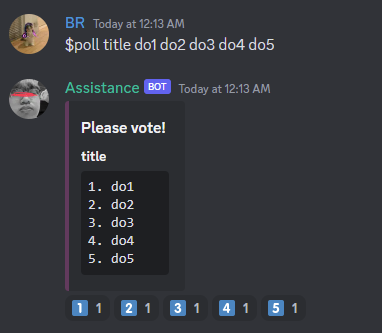
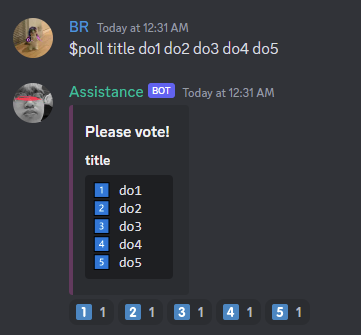
update emoji

Changed region(s): [[0.0, 0.2402, 0.7618, 0.8709], [0.0, 0.03, 0.7922, 0.1802], [0.1828, 0.9009, 0.8532, 0.961]]

diff --git a/main.py b/main.py
@@ -610,7 +610,7 @@ class MyClient(discord.Client):
             title = choices[0]
             display_choices = ''
             for i in range(len(choices[1:])):
-                display_choices += f"{i + 1}. {choices[1:][i]}\n"
+                display_choices += f"{emoji[i]} {choices[1:][i]}\n"
             embedVar = discord.Embed(title=f"Please vote!", color=0x64395d)
             embedVar.add_field(name=title, value=f"```{display_choices}```", inline=False)
             pollmsg = await message.channel.send(embed=embedVar)
